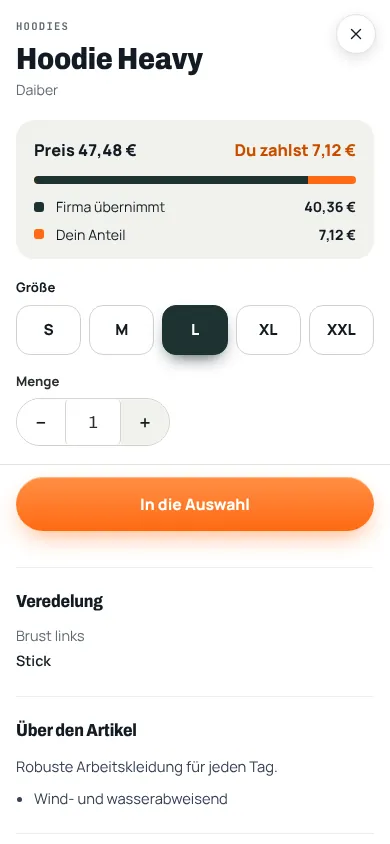
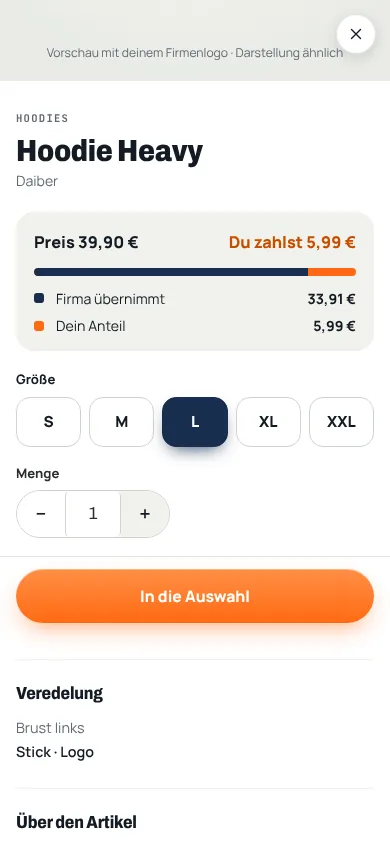
10.25.0: Musterfirma Hanseatic Haustechnik statt KANTENWERK
Neues Logo und Stick-Zeichen im Mustershop, Farben in Dunkelblau,
Website-Shopansichten und Teilen-Bild neu aufgenommen.

Claude-Session: https://claude.ai/code/session_019WyjcymsfVpgKHncW6wWrg

diff --git a/assets/workwear-ui.css b/assets/workwear-ui.css
@@ -331,11 +331,11 @@ html body .cp-foot{border-top-color:var(--cp-line);color:var(--cp-muted)}
 html body .cp-tabbar{background:#ffffff;border-top:1px solid var(--cp-line);backdrop-filter:none}
 html body .cp-tab.active{color:var(--cp-primary-ink)}
 
-/* The sample is KANTENWERK's own shop identity, distinct from the platform. */
+/* The sample is Hanseatic Haustechnik's own shop identity, distinct from the platform. */
 html body .demo:not(.demo-probe) .demo-app{border-radius:4px;box-shadow:0 8px 24px rgba(48,40,34,.055)}
-html body .demo:not(.demo-probe) .demo-hero{background:#f0f0e9}
+html body .demo:not(.demo-probe) .demo-hero{background:#e9eef4}
 html body .demo:not(.demo-probe) .demo-product{border-radius:4px}
-html body .demo:not(.demo-probe) .demo-visual{border-radius:4px;background:#eeede6}
+html body .demo:not(.demo-probe) .demo-visual{border-radius:4px;background:#edf0f4}
 html body .demo:not(.demo-probe) .demo-product:hover{transform:translateY(-2px);box-shadow:0 8px 18px rgba(48,40,34,.08)}
 
 @media(max-width:1240px){html body .s-nav,html body .s-header-end{display:none}html body .s-menu{display:block}}

diff --git a/app/modules/demo.php b/app/modules/demo.php
@@ -9,7 +9,7 @@ require_once __DIR__.'/probeshop.php';
 function mustershop_page(): void {
     $embedded=(string)($_GET['embed']??'')==='1';
     if($embedded)header('X-Robots-Tag: noindex, nofollow');
-    render_head('KANTENWERK Mustershop – Firmenshop live ausprobieren | WorkwearCenter');
+    render_head('Mustershop – Firmenshop live ausprobieren | WorkwearCenter');
     if(!$embedded)w_header(); // 10.21: gleicher Kopf wie die Website
     // 10.23.2: Artikel aus dem eigenen Produktkatalog (Verwaltung → Produkte); nur ohne Katalog die drei Beispielartikel.
     $products=yw_demo_catalog_products();
@@ -18,16 +18,16 @@ function mustershop_page(): void {
         ['Hoodie Team','Hoodies','Eine zusätzliche Schicht für kühle Arbeitstage.',5490,'WC-HD02','Graphit','XS–4XL',['XS','S','M','L','XL','2XL','3XL','4XL'],'assets/media/products/workwear-hoodie.webp',['x'=>63,'y'=>30,'w'=>9],'HOODIE'],
         ['Softshelljacke','Jacken','Eine Jacke für den Einsatz im Freien.',8490,'WC-SJ03','Schwarz','S–5XL',['S','M','L','XL','2XL','3XL','4XL','5XL'],'assets/media/products/workwear-softshell.webp',['x'=>61,'y'=>36,'w'=>9],'SOFTSHELL'],
     ] as [$name,$category,$detail,$cents,$sku,$color,$sizes,$sizeOptions,$image,$zone,$code]){
-        $views=[['view'=>'front','label'=>'Vorderseite','image'=>$image,'layers'=>[['src'=>'assets/media/demo/kantenwerk-mark.svg','x'=>$zone['x'],'y'=>$zone['y'],'w'=>$zone['w'],'method'=>'embroidery','label'=>'KANTENWERK · Brust links']]]];
+        $views=[['view'=>'front','label'=>'Vorderseite','image'=>$image,'layers'=>[['src'=>'assets/media/demo/hanseatic-mark.png','x'=>$zone['x'],'y'=>$zone['y'],'w'=>$zone['w'],'method'=>'embroidery','label'=>'Hanseatic Haustechnik · Brust links']]]];
         $visual=yw_mockup_html($views,$name.' in '.$color.' mit Logo-Vorschau',false,'demo-mockup');
         $products[]=['name'=>$name,'category'=>$category,'detail'=>$detail,'cents'=>$cents,'sku'=>$sku,'color'=>$color,'sizes'=>$sizes,'size_options'=>$sizeOptions,'code'=>$code,'visual'=>$visual];
     }
     $notice=$embedded
-        ?'<span><strong>KANTENWERK · Musterunternehmen</strong> · Preise, Budget und Auswahl sind Beispieldaten. Es wird keine Bestellung übertragen.</span>'
-        :'<span><strong>KANTENWERK · Musterunternehmen</strong> · Preise, Budget und Auswahl sind Beispieldaten. Es wird keine Bestellung übertragen.</span><a href="/anfrage">Eigenen Firmenshop besprechen →</a>';
+        ?'<span><strong>Hanseatic Haustechnik · Musterunternehmen</strong> · Preise, Budget und Auswahl sind Beispieldaten. Es wird keine Bestellung übertragen.</span>'
+        :'<span><strong>Hanseatic Haustechnik · Musterunternehmen</strong> · Preise, Budget und Auswahl sind Beispieldaten. Es wird keine Bestellung übertragen.</span><a href="/anfrage">Eigenen Firmenshop besprechen →</a>';
     yw_demo_shop_render([
-        'company'=>'KANTENWERK',
-        'mark'=>'<img src="/assets/media/demo/kantenwerk-logo.svg" alt="KANTENWERK – Industrie und Service">',
+        'company'=>'Hanseatic Haustechnik GmbH',
+        'mark'=>'<img src="/assets/media/demo/hanseatic-logo.png" alt="Hanseatic Haustechnik – Sanitär, Heizung, Klima" width="900" height="299">',
         'notice'=>$notice,
         'products'=>$products,
     ]);
@@ -44,7 +44,7 @@ function yw_demo_product_ids(): array {
 /**
  * 10.23.2: Artikel für den Mustershop aus dem Stammkatalog. Angehakte Artikel in ihrer Reihenfolge,
  * sonst automatisch bis zu neun aktive Artikel mit Foto, abwechselnd aus den Kategorien.
- * Das KANTENWERK-Zeichen sitzt in der erkannten bzw. von Hand gesetzten Druckzone „Brust links“ –
+ * Das Hanseatic-Zeichen sitzt in der erkannten bzw. von Hand gesetzten Druckzone „Brust links“ –
  * dieselbe Zone, die auch in den echten Firmenshops gilt.
  */
 function yw_demo_catalog_products(): array {
@@ -74,7 +74,7 @@ function yw_demo_catalog_products(): array {
         $type=yw_zone_garment_type($p);
         $found=yw_product_decoratable($p)?yw_zone_for($zones,'chest_left',['front']):null;
         $layers=[];
-        if($found){$z=$found['zone'];$layers[]=['src'=>'assets/media/demo/kantenwerk-mark.svg','x'=>$z['x'],'y'=>$z['y'],'w'=>round(max(5.0,min(14.0,(float)$z['w']*0.8)),1),'method'=>'embroidery','label'=>'KANTENWERK'];}
+        if($found){$z=$found['zone'];$layers[]=['src'=>'assets/media/demo/hanseatic-mark.png','x'=>$z['x'],'y'=>$z['y'],'w'=>round(max(5.0,min(14.0,(float)$z['w']*0.8)),1),'method'=>'embroidery','label'=>'Hanseatic Haustechnik'];}
         $sizes=json_decode((string)($p['sizes']??''),true);$sizes=is_array($sizes)?array_values(array_filter(array_map('strval',$sizes),'strlen')):[];
         $color=trim((string)($p['color']??''));
         $name=(string)$p['name'];
@@ -117,8 +117,8 @@ function yw_demo_shop_render(array $o): void {
     echo '<div class="demo-notice">'.$o['notice'].'</div>';
     if(!$probe){
         $categories=array_values(array_unique(array_column($o['products'],'category')));
-        echo '<section class="demo-app" aria-label="KANTENWERK Muster-Firmenshop"><header class="demo-shopbar"><a class="demo-brand" href="#demo-kollektion" aria-label="KANTENWERK Firmenshop">'.$o['mark'].'</a><div class="demo-shopbar-actions"><span class="demo-shopbar-label"><i aria-hidden="true"></i> MUSTER-FIRMENSHOP</span><button class="demo-cart" type="button" aria-controls="demo-selection" aria-expanded="false">Deine Auswahl <span id="demo-count" aria-live="polite">0</span></button></div></header><div class="demo-main">';
-        echo '<section class="demo-hero" aria-labelledby="demo-hero-title"><div class="demo-hero-copy"><span class="demo-eyebrow">KANTENWERK · INDUSTRIE &amp; SERVICE</span><h1 id="demo-hero-title">Arbeitskleidung für unser Team.</h1><p>Wähle die passende Kleidung, Größe und Menge aus der KANTENWERK-Kollektion.</p><a class="demo-hero-link" href="#demo-kollektion">Kollektion ansehen <span aria-hidden="true">→</span></a><div class="demo-assurances"><span><i aria-hidden="true">✓</i> KANTENWERK-Logo auf der Kleidung</span><span><i aria-hidden="true">✓</i> Auswahl nach Größe und Menge</span></div></div><aside class="demo-budget" aria-label="Beispielbudget"><span class="demo-budget-kicker">MUSTERBUDGET</span><span class="demo-budget-title">Verfügbar für die Ausstattung</span><strong id="demo-budget-value">218,70&nbsp;€</strong><div class="demo-progress" role="progressbar" aria-label="Verbleibendes Beispielbudget" aria-valuemin="0" aria-valuemax="30000" aria-valuenow="21870"><span id="demo-progress"></span></div><small>von 300,00&nbsp;€ · Beispieldaten</small><div class="demo-budget-foot"><span aria-hidden="true">●</span> Nur Vorschau – keine Bestellung</div></aside><span class="demo-hero-mark" aria-hidden="true"></span></section>';
+        echo '<section class="demo-app" aria-label="Hanseatic Haustechnik Muster-Firmenshop"><header class="demo-shopbar"><a class="demo-brand" href="#demo-kollektion" aria-label="Hanseatic Haustechnik Firmenshop">'.$o['mark'].'</a><div class="demo-shopbar-actions"><span class="demo-shopbar-label"><i aria-hidden="true"></i> MUSTER-FIRMENSHOP</span><button class="demo-cart" type="button" aria-controls="demo-selection" aria-expanded="false">Deine Auswahl <span id="demo-count" aria-live="polite">0</span></button></div></header><div class="demo-main">';
+        echo '<section class="demo-hero" aria-labelledby="demo-hero-title"><div class="demo-hero-copy"><span class="demo-eyebrow">HANSEATIC HAUSTECHNIK · SANITÄR · HEIZUNG · KLIMA</span><h1 id="demo-hero-title">Arbeitskleidung für unser Team.</h1><p>Wähle die passende Kleidung, Größe und Menge aus der Hanseatic-Kollektion.</p><a class="demo-hero-link" href="#demo-kollektion">Kollektion ansehen <span aria-hidden="true">→</span></a><div class="demo-assurances"><span><i aria-hidden="true">✓</i> Firmenlogo auf der Kleidung</span><span><i aria-hidden="true">✓</i> Auswahl nach Größe und Menge</span></div></div><aside class="demo-budget" aria-label="Beispielbudget"><span class="demo-budget-kicker">MUSTERBUDGET</span><span class="demo-budget-title">Verfügbar für die Ausstattung</span><strong id="demo-budget-value">218,70&nbsp;€</strong><div class="demo-progress" role="progressbar" aria-label="Verbleibendes Beispielbudget" aria-valuemin="0" aria-valuemax="30000" aria-valuenow="21870"><span id="demo-progress"></span></div><small>von 300,00&nbsp;€ · Beispieldaten</small><div class="demo-budget-foot"><span aria-hidden="true">●</span> Nur Vorschau – keine Bestellung</div></aside><span class="demo-hero-mark" aria-hidden="true"></span></section>';
         echo '<div class="demo-content" id="demo-kollektion"><section class="demo-tools" aria-label="Kollektion filtern"><div class="demo-tools-title"><div><span class="demo-eyebrow">DIE KOLLEKTION</span><h2>Für jeden Einsatz.</h2></div><span class="demo-item-count">'.count($o['products']).' Artikel in der Kollektion</span></div><div class="demo-filters"><button class="demo-filter active" data-filter="Alle" type="button" aria-pressed="true">Alle Artikel</button>';
         foreach($categories as $category)echo '<button class="demo-filter" data-filter="'.e($category).'" type="button" aria-pressed="false">'.e($category).'</button>';
         echo '</div></section><section class="demo-selection" id="demo-selection" hidden aria-labelledby="demo-selection-title"><div class="demo-selection-head"><div><span class="demo-eyebrow">NUR IN DIESER VORSCHAU</span><h2 id="demo-selection-title">Deine Auswahl</h2></div><button class="demo-clear" id="demo-clear" type="button">Auswahl leeren</button></div><ul id="demo-selection-items"></ul><p id="demo-selection-empty">Noch keine Artikel ausgewählt.</p><div class="demo-selection-total"><span>Verbleibendes Beispielbudget</span><strong id="demo-selection-budget">218,70&nbsp;€</strong></div></section><div class="demo-products" id="demo-produkte">';
@@ -263,16 +263,16 @@ function yw_demo_shop_css(): string {
 @media(max-width:1050px){.demo-person{display:none}.demo-nav button{padding:0 8px;font-size:.82rem}}
 @media(max-width:760px){.demo-side{height:auto;flex-wrap:wrap;gap:6px;padding:12px 16px 10px}.demo-nav{display:grid;grid-template-columns:repeat(2,minmax(0,1fr));gap:6px;width:100%;height:auto;overflow:visible;align-self:auto;margin:8px 0 0}.demo-nav button{justify-content:center;min-height:42px;padding:0 10px;border-radius:8px;white-space:normal}.demo-nav button.active{background:#eef2f6;color:#101828}.demo-nav button.active:after{left:14px;right:14px;bottom:2px}.demo-content{padding:18px 14px}.demo-welcome{padding:20px}.demo-products{gap:20px 12px}.demo-visual{height:auto}}
 @media(max-width:500px){.demo-products{grid-template-columns:1fr 1fr}.demo-buy{flex-direction:column;align-items:stretch;gap:8px}.demo-product p{display:none}}
-/* KANTENWERK: ruhige, eigenständige Markenwelt mit klarer Bestelloberfläche */
+/* Hanseatic Haustechnik: ruhige, eigenständige Markenwelt mit klarer Bestelloberfläche */
 .demo:not(.demo-probe){
-  --demo-forest:#294238;
-  --demo-forest-deep:#20352d;
-  --demo-lime:#b68b5b;
-  --demo-ink:#24322d;
-  --demo-muted:#65736b;
-  --demo-paper:#f4f2ed;
-  --demo-line:#dedfd9;
-  background:#f2f1ec;
+  --demo-forest:#1f3864;
+  --demo-forest-deep:#162a4d;
+  --demo-lime:#4f86c6;
+  --demo-ink:#1c2533;
+  --demo-muted:#5f6b7a;
+  --demo-paper:#f3f5f8;
+  --demo-line:#dde2ea;
+  background:#eef1f5;
   color:var(--demo-ink);
   min-height:100vh;
   font-family:Inter,ui-sans-serif,system-ui,-apple-system,"Segoe UI",sans-serif;
@@ -286,7 +286,7 @@ function yw_demo_shop_css(): string {
 .demo:not(.demo-probe) .demo-app{display:block;min-height:0;overflow:hidden;border:1px solid #dcddd7;border-radius:3px;background:#fff;box-shadow:0 6px 22px rgba(32,45,38,.045)}
 .demo:not(.demo-probe) .demo-shopbar{min-height:76px;display:flex;align-items:center;justify-content:space-between;gap:20px;padding:10px clamp(18px,3vw,34px);border-bottom:1px solid #e5e6e1;background:#fff}
 .demo:not(.demo-probe) .demo-brand{display:flex;align-items:center;max-width:55%;color:var(--demo-forest);text-decoration:none}
-.demo:not(.demo-probe) .demo-brand img{display:block;width:min(244px,100%);height:52px;object-fit:contain;object-position:left center}
+.demo:not(.demo-probe) .demo-brand img{display:block;width:min(200px,100%);height:60px;object-fit:contain;object-position:left center}
 .demo:not(.demo-probe) .demo-shopbar-actions{display:flex;align-items:center;gap:22px}
 .demo:not(.demo-probe) .demo-shopbar-label{display:flex;align-items:center;gap:8px;color:#6c7771;font-size:.64rem;font-weight:720;letter-spacing:.105em}
 .demo:not(.demo-probe) .demo-shopbar-label i{width:7px;height:7px;border-radius:50%;background:#758e7d}
@@ -379,7 +379,7 @@ function yw_demo_shop_css(): string {
 .demo:not(.demo-probe) .demo-sample-note{margin:16px 0 0;color:#737d75;font-size:.67rem;line-height:1.55}
 .demo:not(.demo-probe) .demo-toast{position:fixed;right:22px;bottom:22px;z-index:99;max-width:min(410px,calc(100vw - 32px));padding:12px 15px;border:1px solid rgba(255,255,255,.14);border-radius:3px;background:var(--demo-forest-deep);color:#fff;box-shadow:0 8px 25px rgba(0,0,0,.17);font-size:.78rem;opacity:0;transform:translateY(8px);pointer-events:none;transition:opacity .18s,transform .18s}
 .demo:not(.demo-probe) .demo-toast.show{opacity:1;transform:none}
-.demo:not(.demo-probe) :focus-visible{outline:3px solid #b68b5b;outline-offset:3px}
+.demo:not(.demo-probe) :focus-visible{outline:3px solid #4f86c6;outline-offset:3px}
 .demo-probe .demo-nav a{position:relative;display:flex;align-items:center;padding:0 12px;color:#5b6678;font-size:.86rem;font-weight:700;text-decoration:none;white-space:nowrap}
 .demo-probe .demo-nav a.active{color:#101828}
 .demo-probe .demo-nav a.active:after{position:absolute;right:12px;bottom:-1px;left:12px;height:2px;border-radius:2px;background:var(--demo-navy);content:""}

diff --git a/app/modules/site_topics.php b/app/modules/site_topics.php
@@ -70,7 +70,7 @@ function topic_ordering_system_page(): void {
         ] as $i=>[$ic,$t,$x])echo '<li class="w-reveal"><span class="ic">'.w_icon($ic).'</span><small>'.($i+1).'</small><h3>'.e($t).'</h3><p>'.e($x).'</p></li>';
         echo '</ol></div></section>';
 
-        topic_split('Freigabesystem','Freigaben, die dokumentiert sind.','<p>Bestellungen landen bei den Personen, die ihr festlegt: Teamleitung, Einkauf oder Geschäftsführung. Sie sehen Person, Artikel, Größen und Beträge auf einen Blick und entscheiden mit einem Klick. Abgelehnte Bestellungen bekommen einen Hinweis, damit niemand nachfragen muss.</p>'.topic_ticks(['Freigabe im Shop oder direkt aus der E-Mail','Vier-Augen-Prinzip für größere Bestellungen','Erinnerung an offene Freigaben','Jede Entscheidung mit Zeitpunkt und Person gespeichert']),w_shot('shop-freigabe','Freigabeseite im Firmenshop: offene Bestellungen mit Person, Größen und Betrag sowie Knöpfe zum Freigeben und Ablehnen',1440,1549,'workwearcenter.de/kantenwerk/freigaben',false,'w-shot-crop'),false,true);
+        topic_split('Freigabesystem','Freigaben, die dokumentiert sind.','<p>Bestellungen landen bei den Personen, die ihr festlegt: Teamleitung, Einkauf oder Geschäftsführung. Sie sehen Person, Artikel, Größen und Beträge auf einen Blick und entscheiden mit einem Klick. Abgelehnte Bestellungen bekommen einen Hinweis, damit niemand nachfragen muss.</p>'.topic_ticks(['Freigabe im Shop oder direkt aus der E-Mail','Vier-Augen-Prinzip für größere Bestellungen','Erinnerung an offene Freigaben','Jede Entscheidung mit Zeitpunkt und Person gespeichert']),w_shot('shop-freigabe','Freigabeseite im Firmenshop: offene Bestellungen mit Person, Größen und Betrag sowie Knöpfe zum Freigeben und Ablehnen',1440,1549,'workwearcenter.de/hanseatic/freigaben',false,'w-shot-crop'),false,true);
 
         echo '<section class="w-sec"><div class="w-wrap">';
         s_head('Regeln, die der Shop für dich prüft','Einmal bei der Einrichtung festgelegt, bei jeder Bestellung automatisch angewendet.','Budget und Limits');
@@ -110,11 +110,11 @@ function topic_employee_shop_page(): void {
         ['Wer sieht die Daten der Mitarbeitenden?','Nur die Verantwortlichen eures Unternehmens und wir für die Produktion. Wir verarbeiten die Daten im Auftrag eures Unternehmens nach Art. 28 DSGVO, die Server stehen in Deutschland.'],
     ];
     topic_page('/mitarbeitershop-arbeitskleidung','Mitarbeitershop','Mitarbeitershop für Arbeitskleidung: Dein Team bestellt selbst.','Jede Person bekommt einen eigenen Zugang zum Firmenshop, sieht nur ihre freigegebene Kleidung, wählt die Größe selbst und weiß jederzeit, wo die Bestellung steht. Ohne App, auch am Handy.',$faqs,function(): void{
-        topic_split('Selbst bestellen','Größe wählen statt Größe weitersagen.','<p>Im Mitarbeitershop sieht jede Person die Kollektion, die für sie freigegeben ist, mit Firmenlogo an der richtigen Stelle. Größe und Menge wählt sie selbst. Beim nächsten Mal schlägt der Shop die zuletzt bestellte Größe vor.</p>'.topic_ticks(['Nur freigegebene Artikel mit hinterlegter Veredelung','Größenvorschlag aus der letzten Bestellung','Preis mit Firmen- und Eigenanteil auf einen Blick','Budget immer sichtbar']),w_shot('shop-artikel','Produktansicht im Mitarbeitershop: Hoodie mit Größenwahl, Menge, Stick Brust links und Preisaufteilung',1440,900,'workwearcenter.de/kantenwerk/produkte'),false,true);
+        topic_split('Selbst bestellen','Größe wählen statt Größe weitersagen.','<p>Im Mitarbeitershop sieht jede Person die Kollektion, die für sie freigegeben ist, mit Firmenlogo an der richtigen Stelle. Größe und Menge wählt sie selbst. Beim nächsten Mal schlägt der Shop die zuletzt bestellte Größe vor.</p>'.topic_ticks(['Nur freigegebene Artikel mit hinterlegter Veredelung','Größenvorschlag aus der letzten Bestellung','Preis mit Firmen- und Eigenanteil auf einen Blick','Budget immer sichtbar']),w_shot('shop-artikel','Produktansicht im Mitarbeitershop: Hoodie mit Größenwahl, Menge, Stick Brust links und Preisaufteilung',1440,900,'workwearcenter.de/hanseatic/produkte'),false,true);
 
         echo '<section class="w-sec w-dark"><div class="w-wrap"><div class="w-split rev"><div class="w-split-copy w-reveal"><span class="w-eyebrow">Am Handy</span><h2>Bestellen in der Pause, in der eigenen Sprache.</h2><p>Viele Mitarbeitende haben keinen Rechner am Arbeitsplatz. Deshalb ist der Shop für das Smartphone gebaut: Anmelden per Link aus der E-Mail, Größe tippen, abschicken. Shop und E-Mails gibt es auf Deutsch, Englisch, Polnisch, Türkisch, Russisch und Rumänisch.</p>'.topic_ticks(['Keine App, kein Passwort nötig (Anmeldelink)','Sechs Sprachen, frei wählbar','Status und Freigabe per E-Mail']).'</div><div class="w-split-media w-phones w-reveal">'.w_phone('shop-handy-start','Startseite des Mitarbeitershops auf dem Smartphone mit Budget und Kollektion').w_phone('shop-handy-artikel','Artikelansicht auf dem Smartphone mit Größenwahl und Preis').'</div></div></div></section>';
 
-        topic_split('Mein Spind','Was habe ich schon? Was kommt noch?','<p>Im Spind sieht jede Person, welche Kleidung sie bekommen hat, mit Größe und Datum. Von dort aus geht die Nachbestellung mit einem Klick, oder der Umtausch wird beantragt, wenn etwas nicht passt. Unter „Bestellungen“ steht der Status jeder Bestellung, vom Freigeben bis zum Versand.</p>'.topic_ticks(['Erhaltene Kleidung mit Größe und Datum','Nachbestellen mit einem Klick','Umtausch und Rückgabe im Shop beantragen','Status mit Sendungsnummer']),w_shot('shop-spind','Mein Spind im Mitarbeitershop: erhaltene Kleidung mit Größe, Datum und Knöpfen zum Nachbestellen und Tauschen',1440,830,'workwearcenter.de/kantenwerk/spind'),true,false);
+        topic_split('Mein Spind','Was habe ich schon? Was kommt noch?','<p>Im Spind sieht jede Person, welche Kleidung sie bekommen hat, mit Größe und Datum. Von dort aus geht die Nachbestellung mit einem Klick, oder der Umtausch wird beantragt, wenn etwas nicht passt. Unter „Bestellungen“ steht der Status jeder Bestellung, vom Freigeben bis zum Versand.</p>'.topic_ticks(['Erhaltene Kleidung mit Größe und Datum','Nachbestellen mit einem Klick','Umtausch und Rückgabe im Shop beantragen','Status mit Sendungsnummer']),w_shot('shop-spind','Mein Spind im Mitarbeitershop: erhaltene Kleidung mit Größe, Datum und Knöpfen zum Nachbestellen und Tauschen',1440,830,'workwearcenter.de/hanseatic/spind'),true,false);
 
         echo '<section class="w-sec w-white"><div class="w-wrap">';
         s_head('So kommt dein Team in den Shop','Du entscheidest, wie neue Leute Zugang bekommen.','Zugänge');
@@ -153,9 +153,9 @@ function topic_management_page(): void {
         ] as [$ic,$t,$x])echo '<article class="w-rule w-reveal"><span class="ic">'.w_icon($ic).'</span><h3>'.e($t).'</h3><p>'.e($x).'</p></article>';
         echo '</div></div></section>';
 
-        topic_split('Ein- und Austritte','Neue Leute ausstatten, ohne Liste.','<p>Kommt jemand neu ins Team, legst du die Person an oder sie registriert sich über euren Firmenlink. Mit dem Ausstattungsprofil sieht sie sofort die passende Kleidung und kann im Rahmen ihres Budgets bestellen. Verlässt jemand das Unternehmen, wird das Konto deaktiviert und auf Wunsch anonymisiert.</p>'.topic_ticks(['Eintritts- und Austrittsdatum je Person','Offene Registrierungen direkt auf der Startseite der Verantwortlichen','Anonymisierung nach DSGVO, Bestellungen bleiben erhalten']),w_shot('shop-personen','Personenliste für Verantwortliche im Firmenshop: aktive Konten, offene Freigaben, Registrierungen und Mitarbeitende mit Abteilung und Kostenstelle',1440,900,'workwearcenter.de/kantenwerk/mitarbeiter'),false,true);
+        topic_split('Ein- und Austritte','Neue Leute ausstatten, ohne Liste.','<p>Kommt jemand neu ins Team, legst du die Person an oder sie registriert sich über euren Firmenlink. Mit dem Ausstattungsprofil sieht sie sofort die passende Kleidung und kann im Rahmen ihres Budgets bestellen. Verlässt jemand das Unternehmen, wird das Konto deaktiviert und auf Wunsch anonymisiert.</p>'.topic_ticks(['Eintritts- und Austrittsdatum je Person','Offene Registrierungen direkt auf der Startseite der Verantwortlichen','Anonymisierung nach DSGVO, Bestellungen bleiben erhalten']),w_shot('shop-personen','Personenliste für Verantwortliche im Firmenshop: aktive Konten, offene Freigaben, Registrierungen und Mitarbeitende mit Abteilung und Kostenstelle',1440,900,'workwearcenter.de/hanseatic/mitarbeiter'),false,true);
 
-        topic_split('Überblick','Wer hat was bekommen?','<p>Jede Bestellung ist einer Person, Abteilung und Kostenstelle zugeordnet. Im Spind jeder Person steht, was sie bekommen hat. Für die Buchhaltung exportierst du Bestellungen nach Zeitraum, für die Lohnabrechnung die Eigenanteile pro Monat.</p>'.topic_ticks(['Auswertung nach Person, Abteilung, Kostenstelle','Export für Buchhaltung und Lohnabrechnung','Bestellstatus aus unserer Produktion, live im Shop']),w_shot('shop-status','Bestellübersicht mit Statusleiste von Freigegeben über In Produktion bis Versendet',1440,766,'workwearcenter.de/kantenwerk/bestellungen'),true,false);
+        topic_split('Überblick','Wer hat was bekommen?','<p>Jede Bestellung ist einer Person, Abteilung und Kostenstelle zugeordnet. Im Spind jeder Person steht, was sie bekommen hat. Für die Buchhaltung exportierst du Bestellungen nach Zeitraum, für die Lohnabrechnung die Eigenanteile pro Monat.</p>'.topic_ticks(['Auswertung nach Person, Abteilung, Kostenstelle','Export für Buchhaltung und Lohnabrechnung','Bestellstatus aus unserer Produktion, live im Shop']),w_shot('shop-status','Bestellübersicht mit Statusleiste von Freigegeben über In Produktion bis Versendet',1440,766,'workwearcenter.de/hanseatic/bestellungen'),true,false);
     },'Arbeitskleidung, die sich selbst verwaltet.','Wir richten Personen, Profile, Budgets und Freigaben für dich ein. Du behältst den Überblick, wir kümmern uns um Kleidung und Veredelung.','Workwear Management');
 }
 

diff --git a/app/modules/site.php b/app/modules/site.php
@@ -259,7 +259,7 @@ function s_trust_section(bool $embedded=false): void {
 }
 
 /** Browserrahmen mit einem echten Bildschirmfoto aus einem Firmenshop. */
-function w_shot(string $file,string $alt,int $w,int $h,string $url='workwearcenter.de/kantenwerk',bool $eager=false,string $class=''): string {
+function w_shot(string $file,string $alt,int $w,int $h,string $url='workwearcenter.de/hanseatic',bool $eager=false,string $class=''): string {
     return '<figure class="w-shot'.($class!==''?' '.$class:'').'"><div class="bar" aria-hidden="true"><i></i><i></i><i></i><span>'.e($url).'</span></div><img src="/assets/media/screens/'.e($file).'.webp" alt="'.e($alt).'" width="'.$w.'" height="'.$h.'"'.($eager?' fetchpriority="high"':' loading="lazy"').' decoding="async"></figure>';
 }
 
@@ -268,14 +268,14 @@ function w_phone(string $file,string $alt,bool $lazy=true): string {
     return '<figure class="w-phone"><img src="/assets/media/screens/'.e($file).'.webp" alt="'.e($alt).'" width="390" height="844"'.($lazy?' loading="lazy"':'').' decoding="async"></figure>';
 }
 
-/** Ansichten aus dem Firmenshop (echte Oberfläche mit Beispieldaten des Musterunternehmens KANTENWERK). */
+/** Ansichten aus dem Firmenshop (echte Oberfläche mit Beispieldaten des Musterunternehmens Hanseatic Haustechnik). */
 function w_shop_views(): array {
     return [
-        ['start','Start & Budget','shop-start',950,'Startseite eines Firmenshops: persönliche Begrüßung, verfügbares Jahresbudget, letzte Bestellung mit Status und die Firmenkollektion','Jede Person sieht nach der Anmeldung ihr verfügbares Budget, die letzte Bestellung und die freigegebene Kollektion.','workwearcenter.de/kantenwerk'],
-        ['artikel','Artikel & Größe','shop-artikel',900,'Produktansicht im Firmenshop: Hoodie mit Größenwahl, Menge, Stick Brust links und Aufteilung des Preises in Firmenanteil und Eigenanteil','Größe wählen, Menge festlegen, fertig. Logo-Position und Veredelung sind fest hinterlegt, der Preis zeigt Firmen- und Eigenanteil.','workwearcenter.de/kantenwerk/produkte'],
-        ['freigabe','Freigabe','shop-freigabe',1549,'Freigabeseite für Verantwortliche: offene Bestellungen mit Artikeln, Größen und Beträgen, Knöpfe zum Freigeben oder Ablehnen','Verantwortliche sehen alle offenen Bestellungen mit Person, Größen und Betrag und geben mit einem Klick frei oder lehnen mit Hinweis ab.','workwearcenter.de/kantenwerk/freigaben'],
-        ['status','Bestellstatus','shop-status',766,'Bestellübersicht mit Statusleiste: freigegeben, in Produktion, fertig, versendet','Freigegeben, in Produktion, fertig, versendet: Der Status wird aus unserer Produktion heraus aktualisiert.','workwearcenter.de/kantenwerk/bestellungen'],
-        ['spind','Mein Spind','shop-spind',830,'Mein Spind: erhaltene Kleidung mit Größe und Datum, Knöpfe zum Nachbestellen und Größe tauschen','Im Spind steht, was jemand schon bekommen hat. Nachbestellen in der bekannten Größe oder Umtausch beantragen geht von hier aus.','workwearcenter.de/kantenwerk/spind'],
+        ['start','Start & Budget','shop-start',950,'Startseite eines Firmenshops: persönliche Begrüßung, verfügbares Jahresbudget, letzte Bestellung mit Status und die Firmenkollektion','Jede Person sieht nach der Anmeldung ihr verfügbares Budget, die letzte Bestellung und die freigegebene Kollektion.','workwearcenter.de/hanseatic'],
+        ['artikel','Artikel & Größe','shop-artikel',900,'Produktansicht im Firmenshop: Hoodie mit Größenwahl, Menge, Stick Brust links und Aufteilung des Preises in Firmenanteil und Eigenanteil','Größe wählen, Menge festlegen, fertig. Logo-Position und Veredelung sind fest hinterlegt, der Preis zeigt Firmen- und Eigenanteil.','workwearcenter.de/hanseatic/produkte'],
+        ['freigabe','Freigabe','shop-freigabe',1549,'Freigabeseite für Verantwortliche: offene Bestellungen mit Artikeln, Größen und Beträgen, Knöpfe zum Freigeben oder Ablehnen','Verantwortliche sehen alle offenen Bestellungen mit Person, Größen und Betrag und geben mit einem Klick frei oder lehnen mit Hinweis ab.','workwearcenter.de/hanseatic/freigaben'],
+        ['status','Bestellstatus','shop-status',766,'Bestellübersicht mit Statusleiste: freigegeben, in Produktion, fertig, versendet','Freigegeben, in Produktion, fertig, versendet: Der Status wird aus unserer Produktion heraus aktualisiert.','workwearcenter.de/hanseatic/bestellungen'],
+        ['spind','Mein Spind','shop-spind',830,'Mein Spind: erhaltene Kleidung mit Größe und Datum, Knöpfe zum Nachbestellen und Größe tauschen','Im Spind steht, was jemand schon bekommen hat. Nachbestellen in der bekannten Größe oder Umtausch beantragen geht von hier aus.','workwearcenter.de/hanseatic/spind'],
     ];
 }
 
@@ -332,7 +332,7 @@ function landing_page(): void {
     echo w_cta_buttons(true);
     echo '<p class="w-hero-note">Mustershop ohne Anmeldung testen · für Unternehmen aus Handwerk, Industrie, Zeitarbeit, Pflege und Verwaltung</p>';
     echo '</div><div class="w-stage">';
-    echo w_shot('shop-start','Echter Firmenshop im WorkwearCenter: Startseite mit Jahresbudget, letzter Bestellung und Kollektion des Musterunternehmens KANTENWERK',1440,950,'workwearcenter.de/kantenwerk',true,'w-stage-shot');
+    echo w_shot('shop-start','Echter Firmenshop im WorkwearCenter: Startseite mit Jahresbudget, letzter Bestellung und Kollektion des Musterunternehmens Hanseatic Haustechnik',1440,950,'workwearcenter.de/hanseatic',true,'w-stage-shot');
     echo '<figure class="w-stage-photo"><img src="/assets/media/work/jacke-brust.webp" alt="Bedrucktes Firmenlogo auf der Brust einer Arbeitsjacke" width="800" height="800" loading="lazy" decoding="async"><figcaption>Gedruckt in '.e($city).'</figcaption></figure>';
     echo '<div class="w-float w-f-approve" aria-hidden="true"><span class="ic">'.w_icon('check').'</span><div><small>Freigabe erteilt</small><strong>Teamleitung Montage</strong><span>Bestellung von Lukas Becker</span></div></div>';
     echo '<div class="w-float w-f-stitch" aria-hidden="true"><small>Hinterlegt</small><div class="row"><span>Verfahren</span><b>Druck</b></div><div class="row"><span>Position</span><b>Brust links</b></div></div>';
@@ -376,7 +376,7 @@ function landing_page(): void {
     echo '<section class="w-sec w-dark w-demo-sec" id="mustershop"><div class="w-wrap">';
     s_head('Mustershop live testen','Keine Prospektbilder: So sieht ein echter Firmenshop aus. Probier ihn selbst aus, ohne Anmeldung.','Selbst ausprobieren');
     w_showcase();
-    echo '<div class="w-demo-cta w-reveal"><div><b>So sieht dein Firmenshop aus.</b><span>Die Ansichten stammen aus dem Firmenshop, mit Beispieldaten des Musterunternehmens KANTENWERK. Im Mustershop wählst du selbst Artikel, Größe und Menge.</span></div>'.w_cta_buttons(true,'w-cta-tight').'</div>';
+    echo '<div class="w-demo-cta w-reveal"><div><b>So sieht dein Firmenshop aus.</b><span>Die Ansichten stammen aus dem Firmenshop, mit Beispieldaten des Musterunternehmens Hanseatic Haustechnik. Im Mustershop wählst du selbst Artikel, Größe und Menge.</span></div>'.w_cta_buttons(true,'w-cta-tight').'</div>';
     echo '</div></section>';
 
     w_customers_section();
@@ -524,7 +524,7 @@ function services_page(): void {
     ];
     foreach($rows as $i=>[$img,$product,$title,$text,$items]){
         echo '<article class="w-row'.($i%2?' rev':'').' w-reveal"><div class="w-row-img'.($product?' product':'').($img==='shot'?' shot':'').'">';
-        if($img==='shot')echo w_shot('shop-artikel','Produktansicht im Firmenshop mit Größenwahl, hinterlegter Veredelung und Preisaufteilung',1440,900,'workwearcenter.de/kantenwerk/produkte');
+        if($img==='shot')echo w_shot('shop-artikel','Produktansicht im Firmenshop mit Größenwahl, hinterlegter Veredelung und Preisaufteilung',1440,900,'workwearcenter.de/hanseatic/produkte');
         else echo '<img src="'.e($img).'" loading="lazy" decoding="async" alt="'.e($product?'Graphitfarbener Hoodie, Beispiel aus der Kollektion':'Gedrucktes Firmenlogo im Detail').'">';
         echo '</div><div class="w-row-copy"><small>0'.($i+1).'</small><h2>'.e($title).'</h2><p>'.e($text).'</p><ul class="w-ticks">';
         foreach($items as $item)echo '<li>'.e($item).'</li>';

diff --git a/app/functions.php b/app/functions.php
@@ -700,7 +700,7 @@ function yw_public_pages(): array {
         '/workwear-management'=>$p('Workwear Management: Arbeitskleidung der Mitarbeiter verwalten | WorkwearCenter','Arbeitskleidung im Unternehmen verwalten: Mitarbeiter, Abteilungen, Ausstattungsprofile, Budgets, Ein- und Austritte, Umtausch und Auswertungen an einem Ort.','Workwear Management','0.8'),
         '/branchen'=>$p('Firmenshop für Arbeitskleidung nach Branche | WorkwearCenter','Firmenshops für Handwerk, Industrie, Zeitarbeit, Pflege, Kommunen, Feuerwehr und Dienstleister: welche Kleidung typisch ist und welche Funktionen dort helfen.','Branchen','0.8'),
         '/leistungen'=>$p('Arbeitskleidung, Textilveredelung und Firmenshop | WorkwearCenter','Arbeits- und Firmenkleidung, Stick, Druck und Transfer aus eigener Produktion in Salzkotten und der Firmenshop für dein Team: alles aus einer Hand.','Leistungen','0.8'),
-        '/mustershop'=>$p('Mustershop live testen – so sieht dein Firmenshop aus | WorkwearCenter','Teste einen Firmenshop für Arbeitskleidung ohne Anmeldung: Kollektion mit Logo, Größenwahl, Beispielbudget und Preise im Musterunternehmen KANTENWERK.','Mustershop','0.8'),
+        '/mustershop'=>$p('Mustershop live testen – so sieht dein Firmenshop aus | WorkwearCenter','Teste einen Firmenshop für Arbeitskleidung ohne Anmeldung: Kollektion mit Logo, Größenwahl, Beispielbudget und Preise im Musterunternehmen Hanseatic Haustechnik.','Mustershop','0.8'),
         '/ueber-uns'=>$p('Über uns: WorkwearCenter von Yanik Textildruck, Salzkotten','WorkwearCenter ist eine Eigenentwicklung von Yanik Textildruck aus Salzkotten: entstanden aus Größenlisten, Nachbestellungen und Freigaben im Alltag unserer Firmenkunden.','Über uns','0.7'),
         '/kontakt'=>$p('Kontakt – WorkwearCenter von Yanik Textildruck in Salzkotten','Kontakt zu WorkwearCenter: Yanik Textildruck, Geseker Straße 19, 33154 Salzkotten. Persönliche Beratung für Unternehmen aus Salzkotten, Paderborn, OWL und ganz Deutschland.','Kontakt','0.7'),
         '/anfrage'=>$p('Firmenshop anfragen | WorkwearCenter','Firmenshop für Arbeitskleidung unverbindlich anfragen: Eckdaten senden, auf Wunsch mit Logo und Artikelliste. Wir melden uns persönlich mit einem Vorschlag.','Anfrage','0.8'),

diff --git a/tests/security_regression.php b/tests/security_regression.php
@@ -617,7 +617,7 @@ test_ok(!str_contains($adminSrc,"'hero_title'=>trim("),'Admin Inhalte: wirkungsl
 // 10.20: neue Website und Kundenleiste
 $siteSrc20=(string)file_get_contents(dirname(__DIR__).'/app/modules/site.php');
 $publicSrc20=(string)file_get_contents(dirname(__DIR__).'/app/modules/public.php');
-test_ok(yw_is_website_path('/')&&yw_is_website_path('/zugang')&&!yw_is_website_path('/admin')&&!yw_is_website_path('/kantenwerk'),'Website: neues Design nur auf den Website-Seiten, nicht in Verwaltung und Firmenshops');
+test_ok(yw_is_website_path('/')&&yw_is_website_path('/zugang')&&!yw_is_website_path('/admin')&&!yw_is_website_path('/hanseatic'),'Website: neues Design nur auf den Website-Seiten, nicht in Verwaltung und Firmenshops');
 test_ok(str_contains($publicSrc20,"WHERE active=1 AND id IN (")&&str_contains($publicSrc20,"array_map('intval',(array)(\$_POST['trust_company_ids']??[]))"),'Kundenleiste: nur aktive Firmen, Haken werden als Zahlen geprüft');
 test_ok(!preg_match('/\b\d{1,3}\.?\d{3}\s*(?:Stiche|Teile)|\d+\+/u',$siteSrc20),'Website: keine erfundenen Kennzahlen (Stiche, Teile, Firmen)');
 test_ok(str_contains($siteSrc20,"if(!\$c['logos'])return;"),'Kundenleiste erscheint nur mit freigegebenen Logos');

diff --git a/AENDERUNGEN-V10.md b/AENDERUNGEN-V10.md
@@ -2,6 +2,13 @@
 
 Stand: 21. Oktober 2026 · enthält alle Korrekturen aus 9.1.0
 
+## 10.25.0 – Musterfirma „Hanseatic Haustechnik“ statt KANTENWERK
+Kein Datenbank-Update nötig. Dateien hochladen (immer überschreiben), danach Strg+F5. Die alten Dateien `assets/media/demo/kantenwerk-logo.svg` und `kantenwerk-mark.svg` werden nicht mehr gebraucht und können gelöscht werden.
+
+- Mustershop: Die Musterfirma heißt jetzt Hanseatic Haustechnik GmbH (Sanitär, Heizung, Klima) und hat ein neues Logo. Auf der Kleidung sitzt das Haus-Zeichen als Stick-Logo.
+- Mustershop in Dunkelblau passend zum Logo statt Waldgrün.
+- Website: Alle Shop-Ansichten (Start, Artikel, Freigaben, Bestellstatus, Mein Spind, Mitarbeiter, Handy) und das Vorschaubild zum Teilen sind neu aufgenommen, mit Hanseatic Haustechnik statt KANTENWERK. Die Adresse in den Ansichten lautet workwearcenter.de/hanseatic.
+
 ## 10.24.0 – Logo sitzt richtig, Schuhe ohne Logo
 Kein Datenbank-Update nötig. Dateien hochladen (immer überschreiben), danach Strg+F5. Die automatisch erkannten Druckzonen werden beim nächsten Aufruf bzw. Cronjob neu berechnet; von Hand gesetzte Zonen bleiben unverändert.
 
